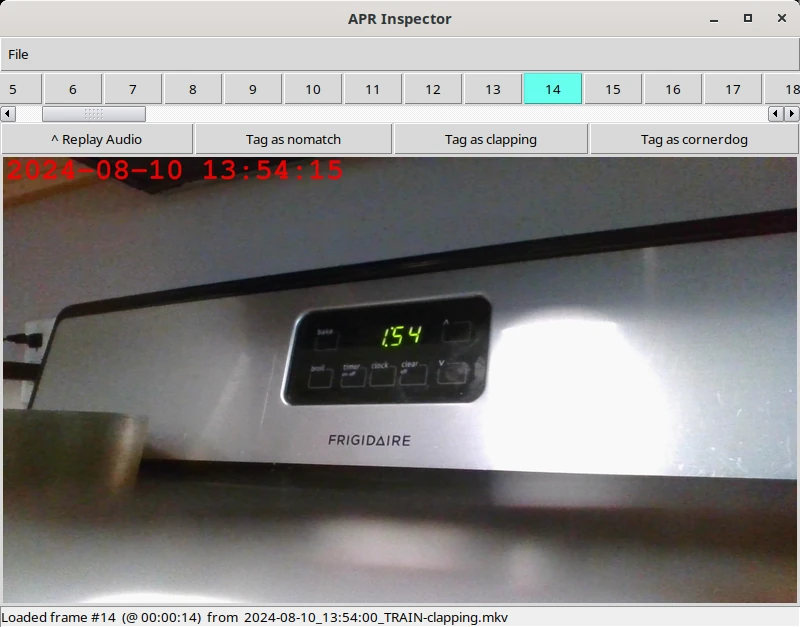
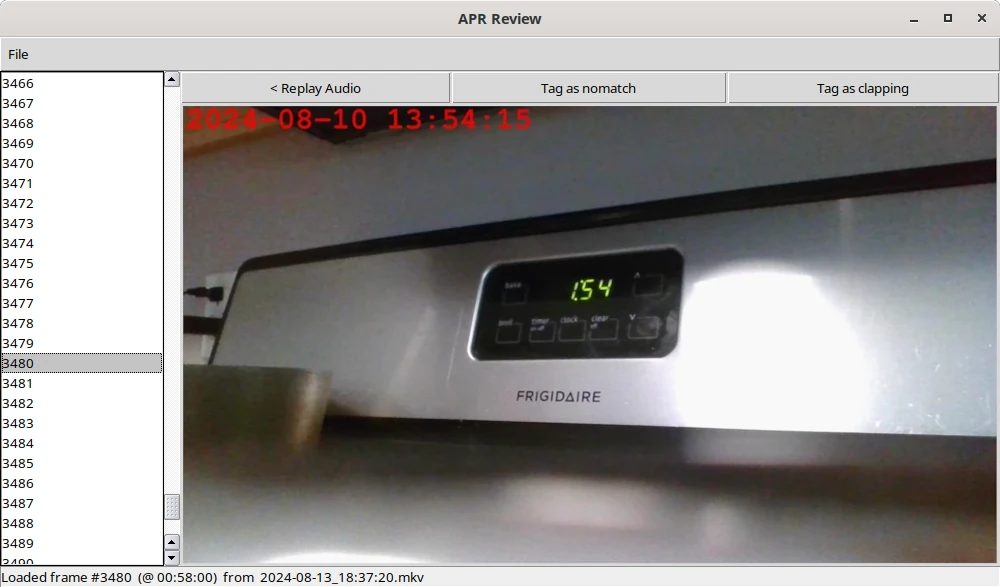
Replace row of buttons with listbox

diff --git a/apr/review/review.py b/apr/review/review.py
@@ -22,7 +22,6 @@ class VideoReview(tkinter.ttk.Frame):
     def __init__(self, parent, *args, **kwargs):
         super().__init__(parent, *args, **kwargs)
         self.parent = parent
-        self.last_clip = None
         self.resize_delay = None
 
         # Load selected video
@@ -30,46 +29,31 @@ class VideoReview(tkinter.ttk.Frame):
         self.video = moviepy.editor.VideoFileClip(
                 str(target_dir / self.winfo_toplevel().target_file.get()))
 
-        # Available Clips
+        # Available Clips w/ scrollbar
         self.clips = tkinter.ttk.Frame(self)
-        self.clips.grid(row=0, column=0, sticky='ew')
-
-        # Scrollbar for Clips
+        self.clips.grid(row=0, column=0, sticky='ns', rowspan=2)
         self.scroll = tkinter.ttk.Scrollbar(
-                self.clips, orient='horizontal')
-        self.cliplist = tkinter.Canvas(
-                self.clips, xscrollcommand=self.scroll.set)
-        self.cliplist.pack(side='top', fill='x')
-        self.scroll.pack(side='top', fill='x')
-        self.scroll.config(command=self.cliplist.xview)
+                self.clips, orient='vertical')
+        self.cliplist = tkinter.Listbox(
+                self.clips, yscrollcommand=self.scroll.set)
+        self.scroll.config(command=self.cliplist.yview)
+        self.scroll.pack(side='right', fill='y', expand=True)
+        self.cliplist.pack(side='left', fill='both', expand=True)
 
-        # Clip Buttons
-        self.clip_buttons = tkinter.Frame(self.cliplist)
-        self.cliplist.create_window(
-                (0, 0), window=self.clip_buttons, anchor='nw')
-        self.buttons = []
-        # Add one button for each clip
+        # Add one entry for each clip
         for clip in apr.common.list_wav(self.winfo_toplevel().tempdir.name):
             i = int(clip.split('.')[0])
-            button = tkinter.Button(
-                    self.clip_buttons, text=str(i), width=4,
-                    command=lambda i=i: self.load_frame(i))
-            self.buttons.append(button)
-            button.pack(side='left')
-        self.button_bg = self.buttons[0].cget('background')
+            self.cliplist.insert(tkinter.END, str(i))
 
-        # Update scroll region
-        self.clip_buttons.update_idletasks()
-        self.cliplist.config(
-                scrollregion=self.cliplist.bbox('all'),
-                height=self.clip_buttons.winfo_height())
+        # Bind double-click event to load the selected clip
+        self.cliplist.bind('<<ListboxSelect>>', self.clip_changed)
 
         # Clip Actions
         self.actions = tkinter.Frame(self)
-        self.actions.grid(row=2, column=0, sticky='ew')
+        self.actions.grid(row=0, column=1, sticky='ew')
         # Replay Audio
         self.replay_btn = tkinter.Button(
-                self.actions, text='^ Replay Audio', command=self.play_frame)
+                self.actions, text='< Replay Audio', command=self.play_frame)
         self.replay_btn.pack(side='left', fill='both', expand=True)
         # Tag for Training
         for model in apr.config.get('models'):
@@ -80,80 +64,25 @@ class VideoReview(tkinter.ttk.Frame):
 
         # Set up video viewer
         self.player = tkinter.ttk.Frame(self)
-        self.player.grid(row=3, column=0, sticky='nesw')
+        self.player.grid(row=1, column=1, sticky='nesw')
         self.player.image = tkinter.Label(self.player)
         self.player.image.pack(fill='both', expand=True)
-        self.grid_rowconfigure(3, weight=1)
-        self.grid_columnconfigure(0, weight=1)
+        self.grid_rowconfigure(1, weight=1)
+        self.grid_columnconfigure(1, weight=1)
 
         # Show initial frame
-        self.after(100, self.load_frame, 1)
+        # self.after(100, self.load_frame, 1)
 
         # Resize image when window size changes
         self.parent.bind('<Configure>', self.resize)
 
-        # Use keypress to transition frame
-        self.parent.bind('<Left>', self.navigate)
-        self.parent.bind('<Right>', self.navigate)
-        self.parent.bind('<Home>', self.navigate)
-        self.parent.bind('<End>', self.navigate)
-        self.parent.bind('<Page_Up>', self.navigate)
-        self.parent.bind('<Page_Down>', self.navigate)
-
-    def navigate(self, event):
-        '''
-        Navigate frame/clip based on keypress
-        '''
-        if self.last_clip is None:
-            return None
-        frame_pos = self.last_clip + 1
-        match event.keysym:
-            # Navigate 1 frame left
-            case 'Left':
-                if frame_pos > 1:
-                    self.load_frame(frame_pos - 1)
-            # Navigate 1 frame right
-            case 'Right':
-                if frame_pos < len(self.buttons):
-                    self.load_frame(frame_pos + 1)
-            # Navigate 60 frame left
-            case 'Prior':
-                if frame_pos > 60:
-                    self.load_frame(frame_pos - 60)
-                elif frame_pos > 1:
-                    self.load_frame(1)
-            # Navigate 60 frame right
-            case 'Next':
-                if frame_pos < len(self.buttons) - 60:
-                    self.load_frame(frame_pos + 60)
-                elif frame_pos < len(self.buttons):
-                    self.load_frame(len(self.buttons))
-            # Navigate to start
-            case 'Home':
-                self.load_frame(1)
-            # Navigate to end
-            case 'End':
-                self.load_frame(len(self.buttons))
-
-        # Update scrollbar position
-        self.scroll_to(self.last_clip / len(self.buttons))
-
-    def scroll_to(self, pos):
-        '''
-        Scroll to specific position (0.0 to 1.0)
-        '''
-        self.cliplist.xview_moveto(pos)
-        x0 = self.cliplist.xview()[0]
-        x1 = self.cliplist.xview()[1]
-        self.scroll.set(x0, x1)
+    def clip_changed(self, event):
+        self.load_frame(int(self.cliplist.get(self.cliplist.curselection())))
 
     def resize(self, event):
         '''
         Resize loaded frame
         '''
-        if self.last_clip is None:
-            return None
-
         # Cancel any previously scheduled resize
         if self.resize_delay is not None:
             self.after_cancel(self.resize_delay)
@@ -165,13 +94,6 @@ class VideoReview(tkinter.ttk.Frame):
         '''
         Load image from video at <frame_pos> seconds
         '''
-        # Reset button background
-        if self.last_clip is not None:
-            self.buttons[self.last_clip].config(background=self.button_bg)
-        # Set background of selected button
-        self.buttons[frame_pos - 1].config(background='#66ffee')
-        self.last_clip = frame_pos - 1
-
         # Load frame from video
         clip_frame = self.video.get_frame(frame_pos)
         self.source_frame = PIL.Image.fromarray(clip_frame)
@@ -188,6 +110,8 @@ class VideoReview(tkinter.ttk.Frame):
                     file=self.winfo_toplevel().target_file.get()))
 
     def resize_clip(self):
+        if not hasattr(self, 'source_frame'):
+            return
         # Get player dimensions and original dimensions
         player_size = (
                 self.player.image.winfo_width() - 4,
@@ -214,7 +138,7 @@ class VideoReview(tkinter.ttk.Frame):
         '''
         Play the audio file for a selected frame
         '''
-        frame_pos = self.last_clip + 1
+        frame_pos = int(self.cliplist.get(self.cliplist.curselection()))
         wav = pathlib.Path(
                 self.winfo_toplevel().tempdir.name) / f'{frame_pos:04d}.wav'
         apr.common.play_audio(wav)
@@ -224,7 +148,7 @@ class VideoReview(tkinter.ttk.Frame):
         Copy (tag) an audio file to a directory (model)
         '''
         # Determine source path
-        frame_pos = self.last_clip + 1
+        frame_pos = int(self.cliplist.get(self.cliplist.curselection()))
         srcdir = self.winfo_toplevel().tempdir.name
         srcpath = f'{srcdir}/{frame_pos:04d}.wav'
 

diff --git a/apr/review/filenav.py b/apr/review/filenav.py
@@ -62,7 +62,7 @@ class FileSelection(tkinter.ttk.Frame):
         self.update_list()
 
         # Bind hotkeys
-        self.parent.bind('<Return>', self.open_path)
+        # self.parent.bind('<Return>', self.open_path)
 
         # Fill entire area
         self.grid_rowconfigure(1, weight=1)
@@ -106,7 +106,7 @@ class FileSelection(tkinter.ttk.Frame):
 
     def open_path(self, event=None):
         '''
-        Validate package selection and trigger reload
+        Validate selection and trigger reload
         '''
         # Create a temp directory for file review
         self.winfo_toplevel().tempdir = tempfile.TemporaryDirectory()
@@ -159,15 +159,16 @@ class FileList(tkinter.ttk.Frame):
 
         # Handle selection change
         self.files.bind('<<ListboxSelect>>', self.update_filename)
-        # self.files.bind('<Double-1>', self.open_path)  # bug
+        self.files.bind('<Double-1>', self.doubleclick)
 
-    def open_path(self, event):
+    def doubleclick(self, event):
         '''
         Trigger parent.open_path via toplevel
         '''
         if not hasattr(self.winfo_toplevel().mainframe.body, 'filename'):
             return None
-        self.winfo_toplevel().mainframe.open_path(event)
+        self.update_filename(event)
+        self.winfo_toplevel().mainframe.body.open_path(event)
 
     def update_filename(self, event):
         '''

diff --git a/apr/review/gui.py b/apr/review/gui.py
@@ -38,7 +38,6 @@ class RootWindow(tkinter.Tk):
             self.style.theme_use('plastik')
         except tkinter.TclError:
             self.style.theme_use('alt')
-        self.load_styles()
 
         # Main menu
         self.menu = apr.review.menu.MainMenu(self)
@@ -75,26 +74,5 @@ class RootWindow(tkinter.Tk):
         # Toggle menu entries
         if framename == 'review':
             self.menu.file.entryconfig('Select File', state='normal')
-            # Hijack up button
-            self.bind('<Up>', self.mainframe.body.play_frame)
-            # TODO: Swap with <Enter>
         elif framename == 'filenav':
             self.menu.file.entryconfig('Select File', state='disabled')
-            # Release up button
-            self.unbind('<Up>')
-
-    def load_styles(self):
-        '''
-        Load a pre-defined set of styles.
-        '''
-        # Vertical Scrollbar / removes all three arrows
-        self.style.layout('arrowless.Vertical.Scrollbar', [
-            ('Vertical.Scrollbar.trough', {
-                'children': [('Vertical.Scrollbar.thumb', {})],
-                })])
-
-        # Horizontal Scrollbar / removes all three arrows
-        self.style.layout('arrowless.Horizontal.Scrollbar', [
-            ('Horizontal.Scrollbar.trough', {
-                'children': [('Horizontal.Scrollbar.thumb', {})],
-                })])
